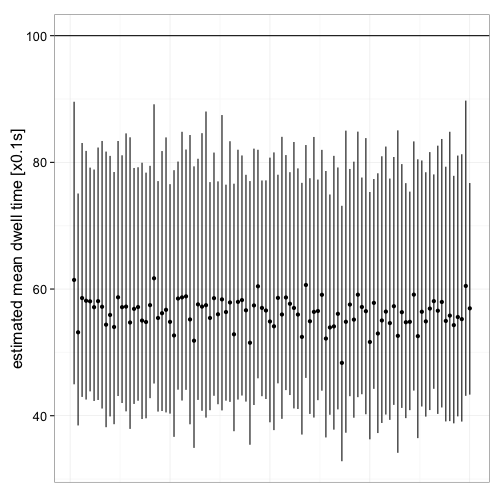
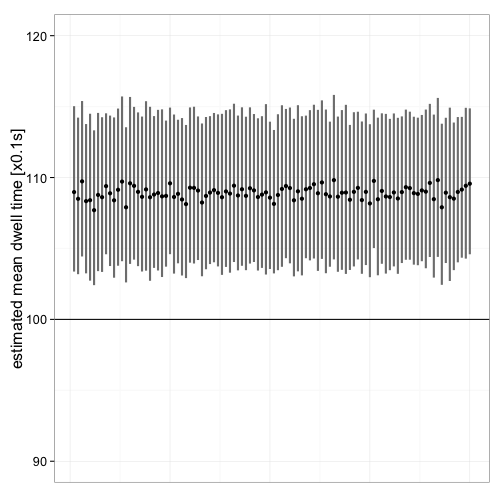
fixed mistakes in most recent post

diff --git a/_posts/2014-07-19-model-protein-dna-dwell-time-part1.md b/_posts/2014-07-19-model-protein-dna-dwell-time-part1.md
@@ -5,6 +5,12 @@ author: Wolfgang Resch
 output: html_document
 ---
 
+
+
+{% highlight text %}
+## Error: duplicate label 'model-single-site'
+{% endhighlight %}
+
 _Disclaimer_:  In this post i'm working through my own thinking on
 how to think about and model simple dwell times of proteins on their DNA binding 
 sites.  I'm not sure any of this is correct (yet).
@@ -25,7 +31,7 @@ The mean of the negative binomial distribution is
 `\[\mu = \frac{p_{nd}}{1-p_{nd}}\]`.
 
 Therefore, if a protein has a mean dwell time of 10s at a given
-site, the probability of dissociation during any time step `t_i` would be
+site, the probability of dissociation during any time step `\(t_i\)` would be
 
 `\[\begin{aligned}
 \frac{p_{nd}}{1-p_{nd}} &= \frac{10}{0.1} \\
@@ -70,7 +76,7 @@ p <- ggplot(data.frame(dt=dt.1)) +
 {% endhighlight %}
 
 <figure>
-<img src="/assets/140719_fitting_exp_decay_models/2014-07-22-fig1.png">
+<img src="http://wresch.github.io/assets/140719_fitting_exp_decay_models/2014-07-22-fig1.png" title="plot of chunk 2014-07-22-fig1" alt="plot of chunk 2014-07-22-fig1" style="display: block; margin: auto;" />
 <figcaption>
 <b>Figure 1</b>: Distribution of dwell times
 </figcaption>
@@ -101,10 +107,10 @@ dt.1.df <- data.frame(t = dt.1.u,
 dt.1.df <- subset(dt.1.df, mcdf > 0)
 {% endhighlight %}
 
-Figure 2 shows that 1 - CDF indeed appearst to be an exponential decay.
+Figure 2 shows that 1 - CDF indeed appears to be an exponential decay.
 
 <figure>
-<img src="/assets/140719_fitting_exp_decay_models/2014-07-22-fig2.png">
+<img src="http://wresch.github.io/assets/140719_fitting_exp_decay_models/2014-07-22-fig2.png" title="plot of chunk 2014-07-22-fig2" alt="plot of chunk 2014-07-22-fig2" style="display: block; margin: auto;" />
 <figcaption>
 <b>Figure 2</b>: 1 - CDF.  Shown in grey dots is the estimate at the original 
 data locations. Shown as a line is evenly spaced data every two time steps.
@@ -161,14 +167,14 @@ summary(linm)
 {% endhighlight %}
 
 results in the expected mean dwell time of 
-`\(\tau = \frac{1}{\lambda} =\)` -98.5474 and
+`\(\tau = \frac{1}{\lambda} =\)` 98.5474 and
 an intercept of 1.004.
 
 However, the diagnostic plots for the linear regression on transformed
 data suggest that some assumptions are being violated (see Figure 3).
 
 <figure>
-<img src="/assets/140719_fitting_exp_decay_models/2014-07-22-fig3.png">
+<img src="http://wresch.github.io/assets/140719_fitting_exp_decay_models/2014-07-22-fig3.png" title="plot of chunk 2014-07-22-fig3" alt="plot of chunk 2014-07-22-fig3" style="display: block; margin: auto;" />
 <figcaption>
 <b>Figure 3</b>: Diagnostic plots for the linear regression on transformed
 data
@@ -222,10 +228,11 @@ summary(linm.i)
 ## F-statistic: 5.79e+04 on 1 and 817 DF,  p-value: <2e-16
 {% endhighlight %}
 
-Figure 4 shows the diagnostic figures for this fit.
+Figure 4 shows the diagnostic figures for this fit. This certainly didn't 
+help any.
 
 <figure>
-<img src="/assets/140719_fitting_exp_decay_models/2014-07-22-fig4.png">
+<img src="http://wresch.github.io/assets/140719_fitting_exp_decay_models/2014-07-22-fig4.png" title="plot of chunk 2014-07-22-fig4" alt="plot of chunk 2014-07-22-fig4" style="display: block; margin: auto;" />
 <figcaption><b>Figure 4</b>: Diagnostic graphs for linear fit to transformed, 
 equally spaced data (linear extrapolation)</figcaption>
 </figure>
@@ -271,7 +278,7 @@ the exponential fit is small. The fit to the linearly interpolated CDF
 data however appears to be less good.
 
 <figure>
-<img src="/assets/140719_fitting_exp_decay_models/2014-07-22-fig5.png">
+<img src="http://wresch.github.io/assets/140719_fitting_exp_decay_models/2014-07-22-fig5.png" title="plot of chunk 2014-07-22-fig5" alt="plot of chunk 2014-07-22-fig5" style="display: block; margin: auto;" />
 <figcaption><b>Figure 5</b>: Original data: **grey dots**; linear fit on transformed
 original data: **red line**; linear fit on transformed original data, equally spaced
 by interpolation: **blue line**; direct exponential fit: **green line**. The green
@@ -301,7 +308,6 @@ sim.2.data <- function() {
     n.la <- n.la - n.diss.la
     n.diss.ha <- min(sum(runif(n.ha) <= pd.ha), n.ha)
     n.ha <- n.ha - n.diss.ha
-    n.ha <- n.ha - n.diss.ha
     dt.2 <- c(dt.2, rep(ti, n.diss.la + n.diss.ha) + 
                 round(rnorm(n.diss.la + n.diss.ha, sd=1.5)))
     ti <- ti + 1
@@ -322,7 +328,7 @@ of 1-CDF of the dwell times
 
 
 <figure>
-<img src="/assets/140719_fitting_exp_decay_models/2014-07-22-fig6.png">
+<img src="http://wresch.github.io/assets/140719_fitting_exp_decay_models/2014-07-22-fig6.png" title="plot of chunk 2014-07-22-fig6" alt="plot of chunk 2014-07-22-fig6" style="display: block; margin: auto;" />
 <figcaption>
 <b>Figure 6</b>: Distribution of dwell times for mixed site model: 200 high affinity 
 sites with a mean dwell time of 10s, 1800 low affinity sites with a mean dwell 
@@ -331,7 +337,7 @@ time of 1s.
 </figure>
 
 <figure>
-<img src="/assets/140719_fitting_exp_decay_models/2014-07-22-fig7.png">
+<img src="http://wresch.github.io/assets/140719_fitting_exp_decay_models/2014-07-22-fig7.png" title="plot of chunk 2014-07-22-fig7" alt="plot of chunk 2014-07-22-fig7" style="display: block; margin: auto;" />
 <figcaption>
 <b>Figure 7</b>: 1 - CDF of mixed model.
 </figcaption>
@@ -365,23 +371,22 @@ summary(expm.2)
 ## 
 ## Parameters:
 ##    Estimate Std. Error t value Pr(>|t|)    
-## l1 0.018771   0.002911    6.45  7.6e-09 ***
-## l2 0.095914   0.000843  113.81  < 2e-16 ***
-## f  0.044873   0.007701    5.83  1.1e-07 ***
+## l1 0.009268   0.000234    39.6   <2e-16 ***
+## l2 0.095546   0.000385   248.0   <2e-16 ***
+## f  0.092851   0.001809    51.3   <2e-16 ***
 ## ---
 ## Signif. codes:  0 '***' 0.001 '**' 0.01 '*' 0.05 '.' 0.1 ' ' 1
 ## 
-## Residual standard error: 0.00437 on 81 degrees of freedom
+## Residual standard error: 0.00334 on 143 degrees of freedom
 ## 
-## Number of iterations to convergence: 12 
-## Achieved convergence tolerance: 9.23e-06
+## Number of iterations to convergence: 9 
+## Achieved convergence tolerance: 5.46e-07
 {% endhighlight %}
 
 The estimates of the mean dwell time of the high affinity sites 
-(53.2732), the low affinity site (10.426), and the 
-fraction of sites that are high affinity (0.0449) are in the right 
-ballpark but the estimate for the high affinity site is quite off, as is the
-fraction of sites that are high affinity.
+(107.903), the low affinity site (10.4662), and the 
+fraction of sites that are high affinity (0.0929) are close to
+the values used in the data generating process.
 
 Is the two component model significantly better than a single component model?
 
@@ -400,14 +405,14 @@ summary(expm.2.single)
 ## 
 ## Parameters:
 ##   Estimate Std. Error t value Pr(>|t|)    
-## l 0.088397   0.000548     161   <2e-16 ***
+## l  0.07572    0.00125    60.3   <2e-16 ***
 ## ---
 ## Signif. codes:  0 '***' 0.001 '**' 0.01 '*' 0.05 '.' 0.1 ' ' 1
 ## 
-## Residual standard error: 0.0104 on 83 degrees of freedom
+## Residual standard error: 0.0301 on 145 degrees of freedom
 ## 
-## Number of iterations to convergence: 4 
-## Achieved convergence tolerance: 7.93e-06
+## Number of iterations to convergence: 6 
+## Achieved convergence tolerance: 3.8e-06
 {% endhighlight %}
 
 
@@ -423,9 +428,9 @@ anova(expm.2.single, expm.2)
 ## 
 ## Model 1: mcdf ~ exp(-l * t)
 ## Model 2: mcdf ~ f * exp(-l1 * t) + (1 - f) * exp(-l2 * t)
-##   Res.Df Res.Sum Sq Df  Sum Sq F value Pr(>F)    
-## 1     83    0.00902                              
-## 2     81    0.00155  2 0.00747     195 <2e-16 ***
+##   Res.Df Res.Sum Sq Df Sum Sq F value Pr(>F)    
+## 1    145     0.1310                             
+## 2    143     0.0016  2  0.129    5799 <2e-16 ***
 ## ---
 ## Signif. codes:  0 '***' 0.001 '**' 0.01 '*' 0.05 '.' 0.1 ' ' 1
 {% endhighlight %}
@@ -435,10 +440,10 @@ Indeed it is. Figure 8 shows the two fitted models with the data.
 <figure>
 
 {% highlight text %}
-## Warning: Removed 7 rows containing missing values (geom_path).
+## Warning: Removed 43 rows containing missing values (geom_path).
 {% endhighlight %}
 
-<img src="/assets/140719_fitting_exp_decay_models/2014-07-22-fig8.png">
+<img src="http://wresch.github.io/assets/140719_fitting_exp_decay_models/2014-07-22-fig8.png" title="plot of chunk 2014-07-22-fig8" alt="plot of chunk 2014-07-22-fig8" style="display: block; margin: auto;" />
 <figcaption><b>Figure 8</b>: Mixture model with `nls` fit of 2 component model 
 (red) and singe component model (blue).  Since the low affinity sites 
 are in excess, the single component model ends up being a reasonable
@@ -485,7 +490,7 @@ and any estimates are possible at all heavily depend on the starting
 parameter estimates.
 
 <figure>
-<img src="/assets/140719_fitting_exp_decay_models/2014-07-22-fig9.png">
+<img src="http://wresch.github.io/assets/140719_fitting_exp_decay_models/2014-07-22-fig9.png" title="plot of chunk 2014-07-22-fig9" alt="plot of chunk 2014-07-22-fig9" style="display: block; margin: auto;" />
 <figcaption><b>Figure 9</b>: Whether l1 is the estimate for the high affinity
 binding site (red) or not (blue) depends on the selection of the initial
 estimates in a mostly predictable way.  Note that there are many combinations of
@@ -494,28 +499,27 @@ initial estimates that yield no results due to a failure of `nls` (white).
 </figure>
 
 Figure 10 shows how accurate the fitted values for high affinity mean dwell time,
-low affinity mean dwell time, and fraction of high affinity sites are. It 
-appears that the good estimate for the low affinity binding constant/mean dwell
-time and relatively poor estimate for the high affinity site and it's frequency
-are systematic and not grossly dependent on the initial estimates.
+low affinity mean dwell time, and fraction of high affinity sites are as a function
+of the initial estimates.  It is clear that in this particular data set, the
+bias of the estimates is not dependent on the initial input data.
 
 <figure>
-<img src="/assets/140719_fitting_exp_decay_models/2014-07-22-fig10.png">
+<img src="http://wresch.github.io/assets/140719_fitting_exp_decay_models/2014-07-22-fig10.png" title="plot of chunk 2014-07-22-fig10" alt="plot of chunk 2014-07-22-fig10" style="display: block; margin: auto;" />
 <figcaption><b>Figure 10</b>: Deviations of the estimates for mean dwell time of the
 high affinity site (top left), mean dwell time of the low affinity site (top 
 right), and the frequency of high affinity sites (bottom left). In all cases,
 color scale is centered at the real value used in data generation. Red values
-indicate overestimates; blue colors underestimates of dwell time (i.e. under-
-and over-estimate of the respective rate constants.). Note that 
-mean dwell time is the inverse of the rate constant.</figcaption>
+indicate overestimates; blue colors underestimates. In the case of
+mean dwell time, an overestimate of the dwell time means that the rate constant
+was underestimated.</figcaption>
 </figure>
 
 Another question is how good the estimates are for different data sets. So,
 100 data sets are simulated and the estimates along with their confidence
 intervals are plotted.  Initial values are selected based on the previous 
 analyses.  Figure 11 shows that the mean dwell time is consistently
-underestimated (rate constant overestimated), irrespective of 
-data set.
+overestimated (rate constant underestimated), irrespective of 
+data set. Despite the obvious bias, the difference is reatively small.
 
 
 {% highlight r %}
@@ -529,7 +533,7 @@ for (i in 1:100) {
   tmp.df <- subset(tmp.df, mcdf > 0)
   fit <- try(nls(mcdf ~ f * exp(- lha * t) + (1 - f) * exp(-lla * t), 
              data  = tmp.df, 
-             start = list(lha=1/20, lla=1/2, f=0.5)),
+             start = list(lha=1/30, lla=1/3, f=0.5)),
              silent=TRUE)
   if (inherits(fit, "nls")) {
     fit.rep[[i]] <- fit
@@ -538,20 +542,18 @@ for (i in 1:100) {
 {% endhighlight %}
 
 <figure>
-<img src="/assets/140719_fitting_exp_decay_models/2014-07-22-fig11.png">
+<img src="http://wresch.github.io/assets/140719_fitting_exp_decay_models/2014-07-22-fig11.png" title="plot of chunk 2014-07-22-fig11" alt="plot of chunk 2014-07-22-fig11" style="display: block; margin: auto;" />
 <figcaption><b>Figure 11</b>:  Point estimate and confidence interval of the
 dwell time for the high affinity site in 100 simulated data sets.</figcaption>.
 </figure>
 
 ## Final thoughts 
 
-* `nls` appears to consistently underestimate the mean dwell time (overestimate 
-off rate) and frequency of the high affinity site in these simulations. In a
-future post I will try to determine why and how to improve the estimate.
+* There appears to be a consistant bias in the estimates.  In a future post
+  i will try to determine where the bias comes from (or if there is a flaw
+  in the simulated data).
 * `nls` defaults to
 the Gauss-Newton algorithm which is less stable with respect to initial estimates than
 Levenberg-Marquardt (LM).  `minpack.lm` provides the LM algorithm. In a future
 post i will compare `nls` to the minpack implementation as well s the `gnm` 
 package, which implements generalized nonlinear models.
-
-
